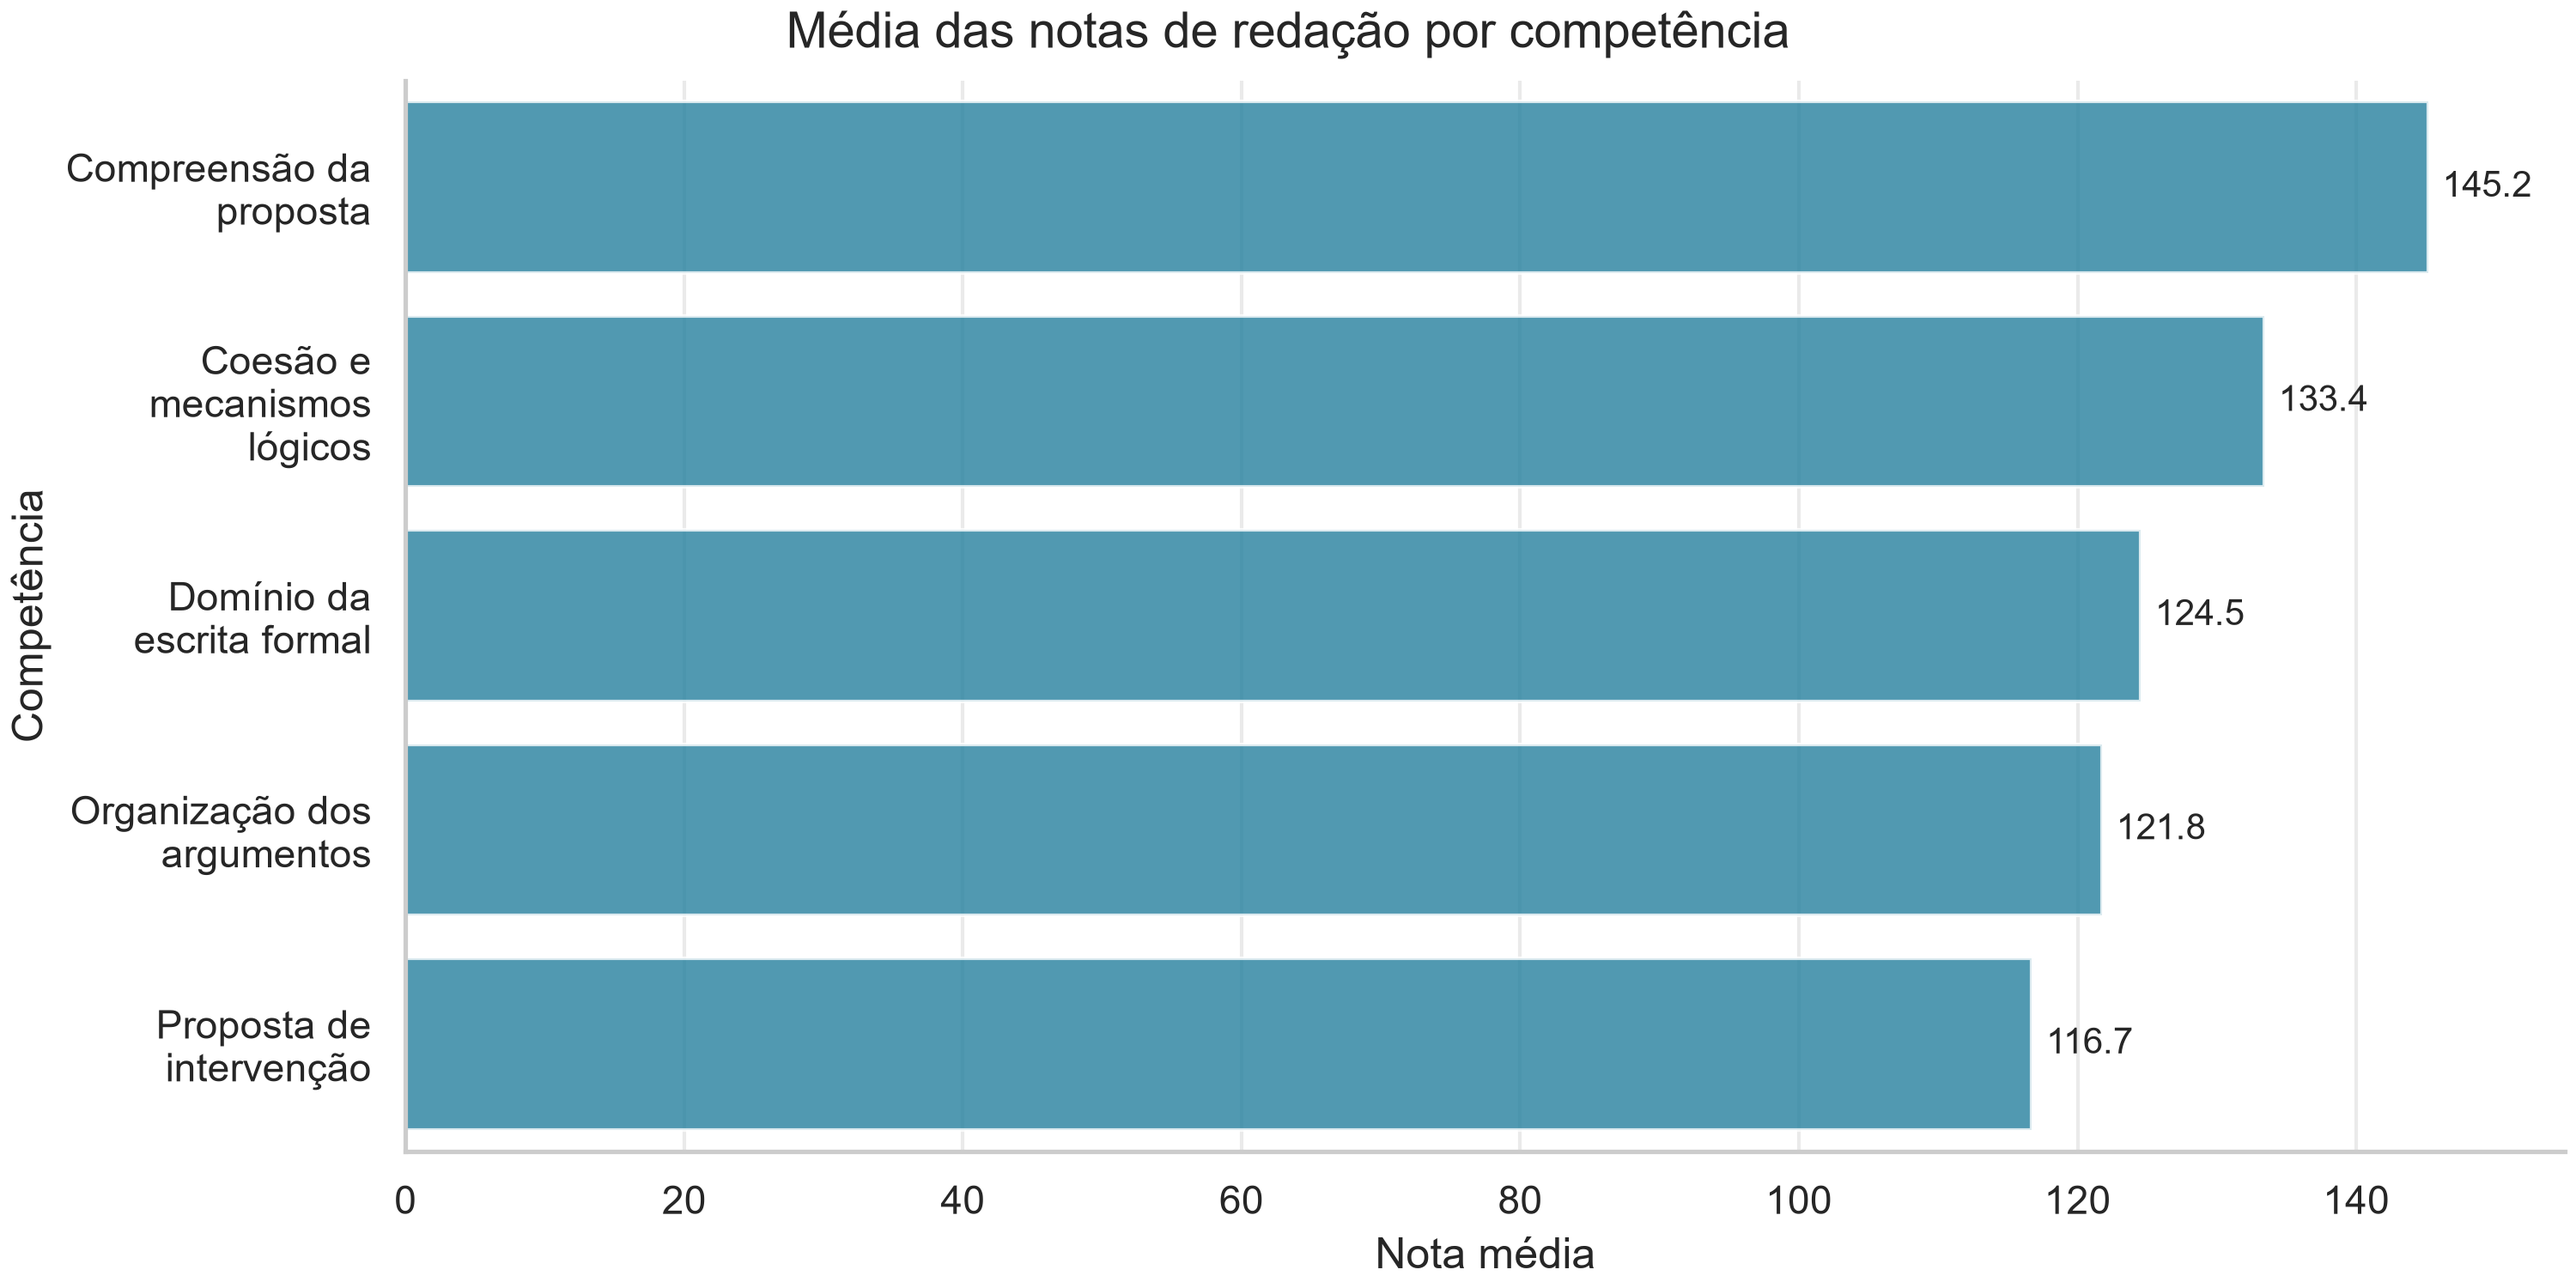
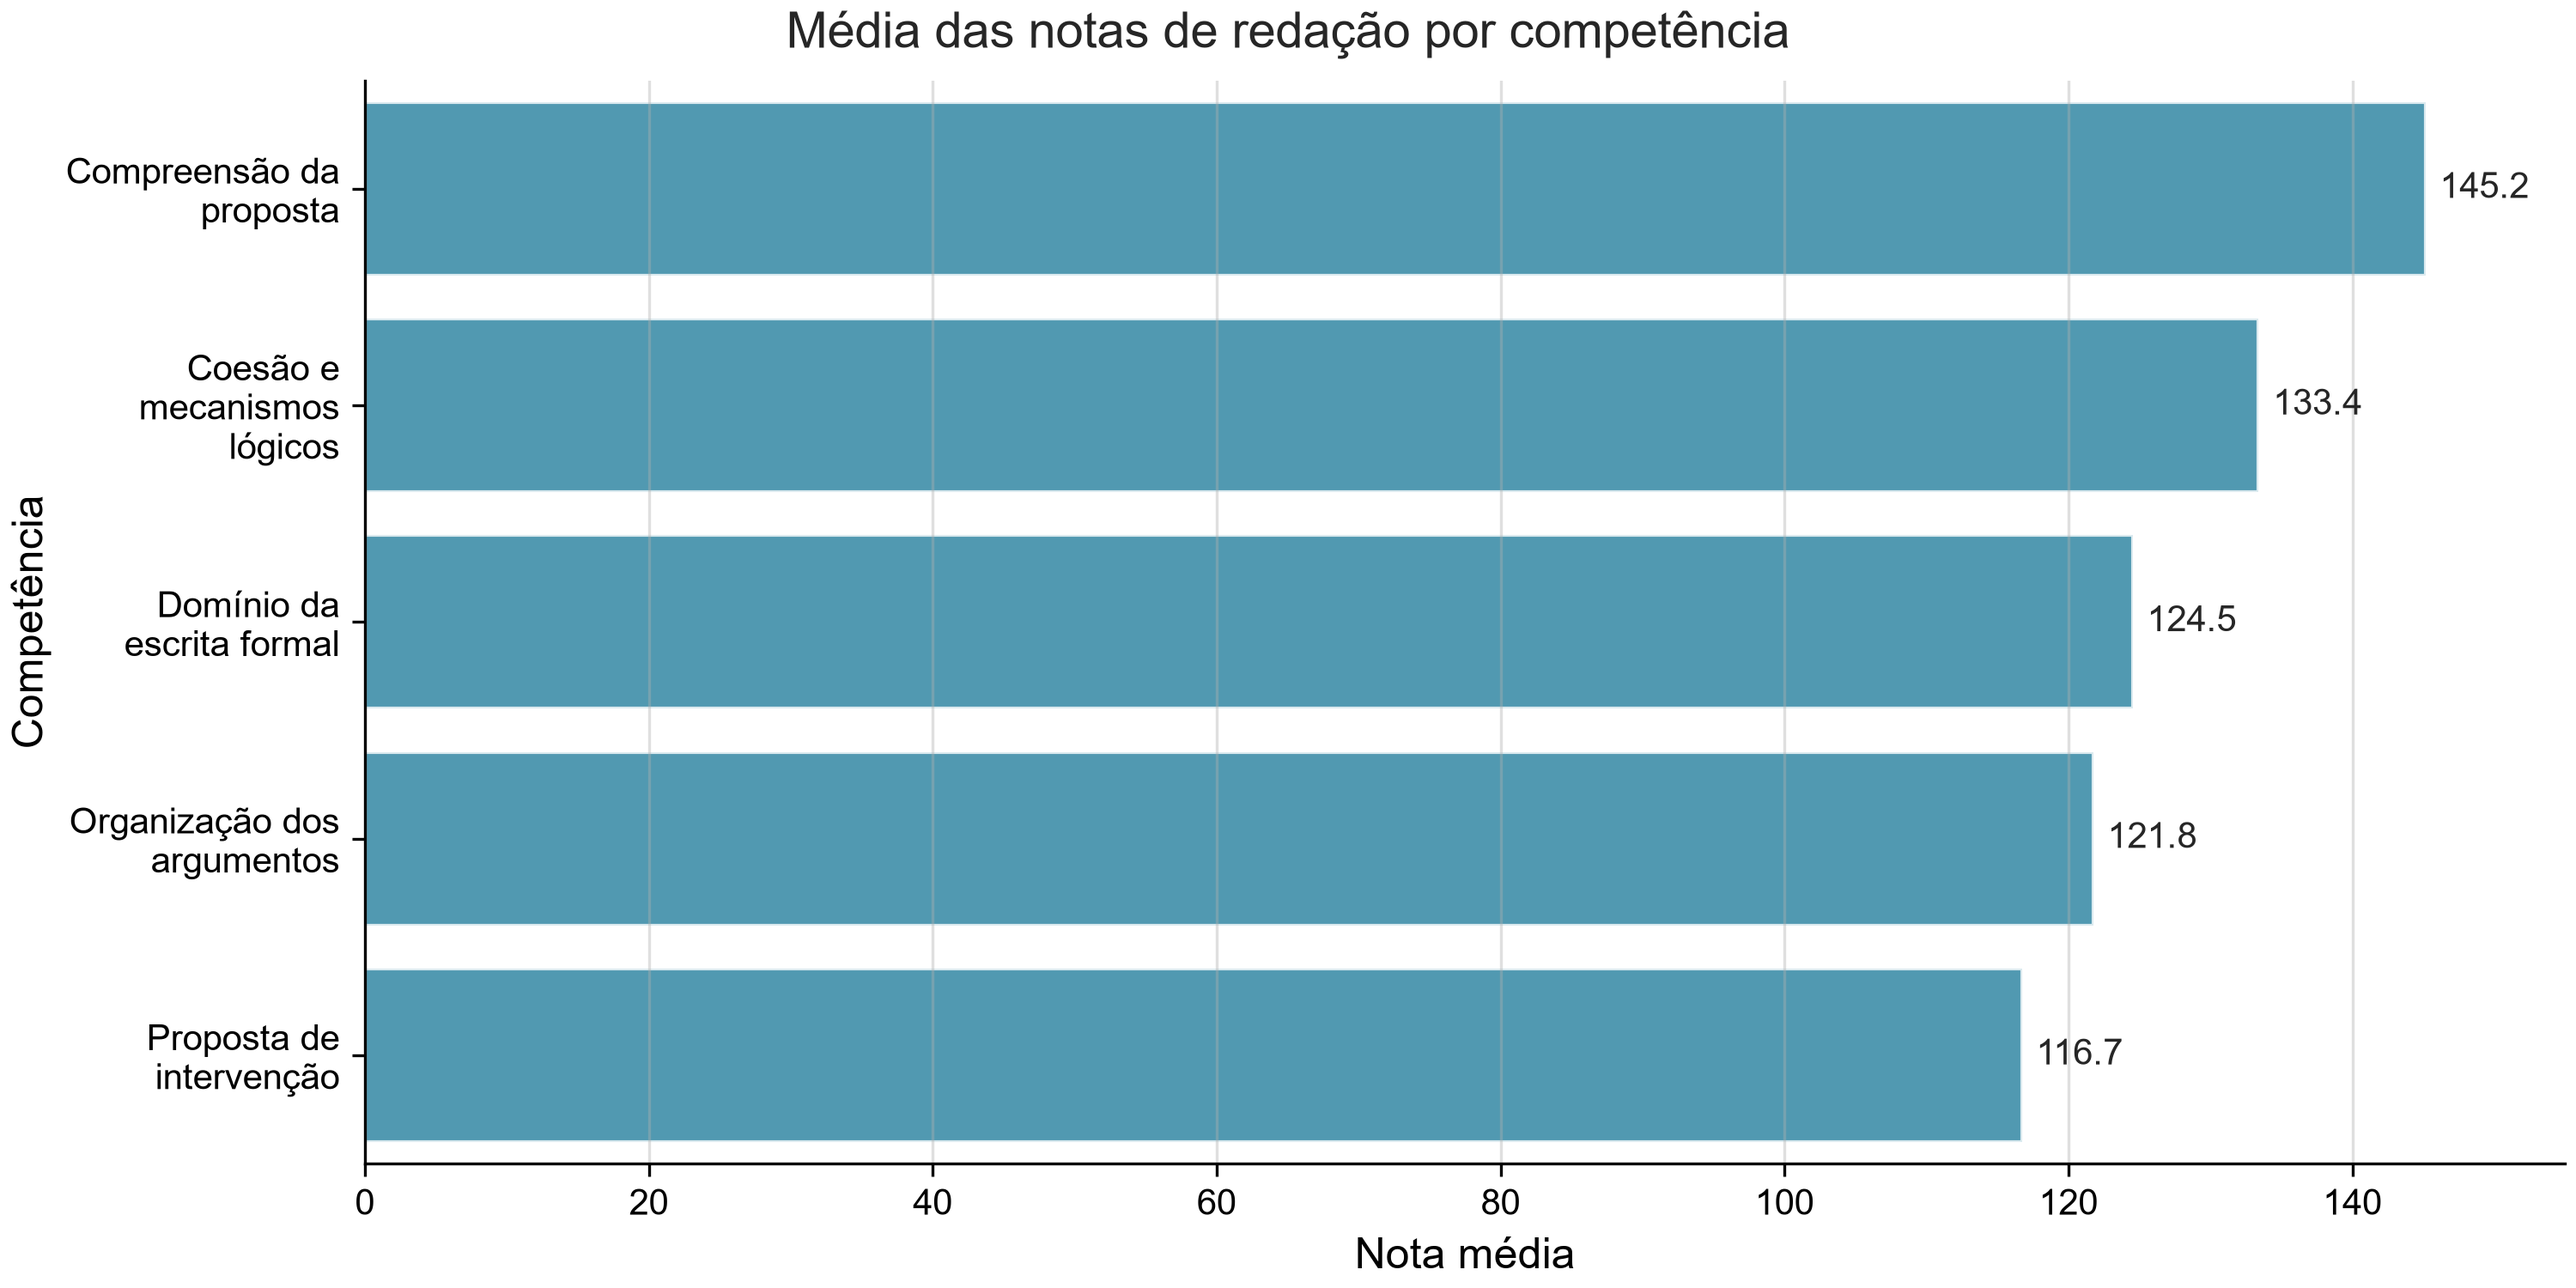
Corrigidos scripts SQL dim_competencias_redacao e mart_redacao para incluir uma coluna com nome simplificado de cada competência. Esse nome é usado no gráfico para facilitar visualização. Novos scripts executados com sucesso.

Changed region(s): [[0.0, 0.2453, 1.0, 1.0], [0.031, 0.0613, 0.93, 0.2147], [0.93, 0.1227, 0.992, 0.1533]]

diff --git a/scripts/gold.py b/scripts/gold.py
@@ -19,8 +19,8 @@ def executar_gold():
         # criar_tabela('sql/03_gold/mart_TRI.sql','mart_tri') # Criar tabela final para análise de dificuldade prevista x taxa de acerto
         # criar_tabela('sql/03_gold/mart_fadiga.sql','mart_fadiga') # criar tabela final para entender se o aluno "cansa" ao longo da prova e se isso impacta no desempenho
         # criar_tabela('sql/03_gold/dim_competencias_redacao.sql','dim_competencias_redacao') # criar tabela com as competências da redação
-        # criar_tabela('sql/03_gold/mart_redacao.sql','mart_redacao') # criar a tabela final com as médias de cada competência da redação. Pronta para visualização.
-        criar_tabela('sql/03_gold/mart_tendencia_redacao.sql', 'mart_tendencia_redacao') # criar a tabela cruzando nota da redação com nota de LC
+        criar_tabela('sql/03_gold/mart_redacao.sql','mart_redacao') # criar a tabela final com as médias de cada competência da redação. Pronta para visualização.
+        # criar_tabela('sql/03_gold/mart_tendencia_redacao.sql', 'mart_tendencia_redacao') # criar a tabela cruzando nota da redação com nota de LC
 
     except Exception as e: # capturar erros e lançar no terminal
         print(f"Erro durante a criação da camada gold: \n{e}")
